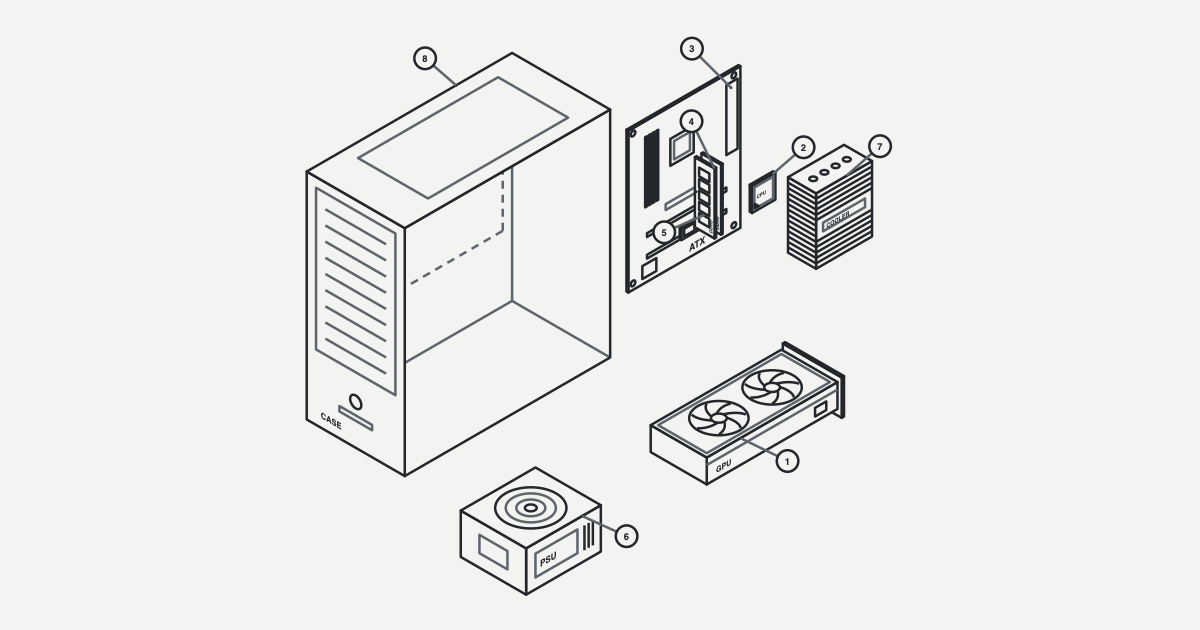
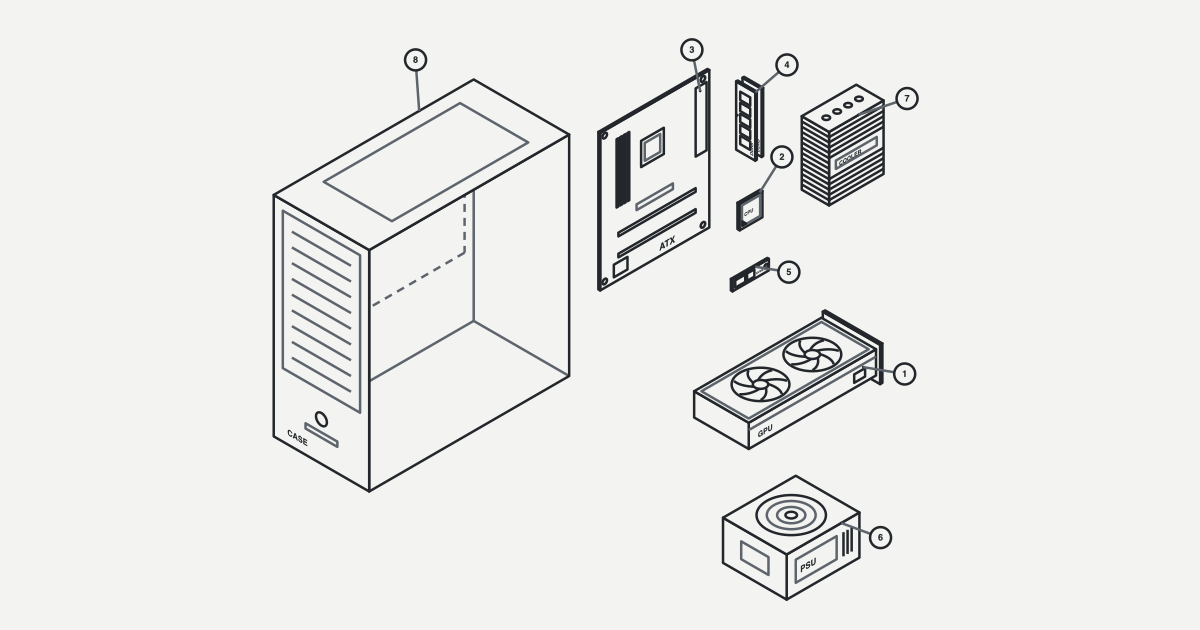
Чертёж: детали больше не накладываются друг на друга
- каждой детали задано место на экране, генератор проверяет зазоры и выноски
- анимация: детали по очереди выдвигаются от корпуса, без пролёта поверх
- обновлена картинка для соцсетей

diff --git a/public/index.html b/public/index.html
@@ -84,7 +84,7 @@
       <div class="container hero__grid">
         <h1 class="hero__title" id="hero-title" data-i18n="hero.title">Соберём компьютер, который не придётся переделывать</h1>
         <div class="hero__drawing">
-          <!-- assembly:start --><svg class="assembly" id="assembly" viewBox="-313 -402 887 846" role="img" aria-labelledby="assembly-title" xmlns="http://www.w3.org/2000/svg"><title id="assembly-title" data-i18n="hero.drawing">Сборочный чертёж компьютера: 8 деталей</title><g class="part part--case" id="part-case" data-pos="8"><line class="d thin" x1="0" y1="0" x2="0" y2="-368"/><line class="d thin" x1="0" y1="0" x2="145.5" y2="84"/><line class="d thin" x1="0" y1="0" x2="-304.8" y2="176"/><polygon class="ph" points="-13.9,-104 -180.1,-8 -180.1,-248 -13.9,-344"/><polygon class="o" points="145.5,84 -159.3,260 -159.3,-108 145.5,-284"/><polygon class="f" points="-304.8,176 -159.3,260 -159.3,-108 -304.8,-192"/><g transform="matrix(6.928 4 0 8 -304.8 -192)"><rect class="d thin" x="2" y="2" width="17" height="30"/><line class="d thin" x1="4" y1="5" x2="17" y2="5"/><line class="d thin" x1="4" y1="8" x2="17" y2="8"/><line class="d thin" x1="4" y1="11" x2="17" y2="11"/><line class="d thin" x1="4" y1="14" x2="17" y2="14"/><line class="d thin" x1="4" y1="17" x2="17" y2="17"/><line class="d thin" x1="4" y1="20" x2="17" y2="20"/><line class="d thin" x1="4" y1="23" x2="17" y2="23"/><line class="d thin" x1="4" y1="26" x2="17" y2="26"/><line class="d thin" x1="4" y1="29" x2="17" y2="29"/><circle class="d" cx="10.5" cy="37.5" r="1.2"/><rect class="d thin" x="7" y="40" width="7" height="1"/><text class="mk" x="3" y="44.2" font-size="1.6">CASE</text></g><polygon class="f" points="0,-368 145.5,-284 -159.3,-108 -304.8,-192"/><g transform="matrix(6.928 4 -6.928 4 0 -368)"><rect class="d thin" x="3" y="6" width="15" height="30"/></g></g><g class="parts"><g class="part" id="part-psu" data-pos="6" data-i="6" data-tx="41.6" data-ty="312" transform="translate(41.6 312)"><polygon class="f" points="90.1,60 -20.8,124 -20.8,55.2 90.1,-8.8"/><polygon class="f" points="-117.8,68 -20.8,124 -20.8,55.2 -117.8,-0.8"/><polygon class="f" points="-6.9,-64.8 90.1,-8.8 -20.8,55.2 -117.8,-0.8"/><g transform="matrix(6.928 4 -6.928 4 -6.9 -64.8)"><circle class="d" cx="7" cy="8" r="5.4"/><circle class="d thin" cx="7" cy="8" r="3.8"/><circle class="d thin" cx="7" cy="8" r="2.2"/><circle class="d" cx="7" cy="8" r="0.9"/></g><g transform="matrix(6.928 -4 0 8 -20.8 55.2)"><rect class="d thin" x="2" y="2" width="9" height="4.4"/><text class="mk" x="3" y="5" font-size="1.7">PSU</text><line class="d" x1="12.5" y1="2" x2="12.5" y2="6.6"/><line class="d" x1="13.4" y1="2" x2="13.4" y2="6.6"/><line class="d" x1="14.3" y1="2" x2="14.3" y2="6.6"/></g><g transform="matrix(6.928 4 0 8 -117.8 -0.8)"><rect class="d thin" x="4" y="2.5" width="6" height="3.4"/></g></g><g class="part" id="part-motherboard" data-pos="3" data-i="5" data-tx="346.4" data-ty="-8" transform="translate(346.4 -8)"><polygon class="f" points="-7.6,-100.4 -173.9,-4.4 -173.9,-244.4 -7.6,-340.4"/><polygon class="f" points="-176.7,-6 -173.9,-4.4 -173.9,-244.4 -176.7,-246"/><polygon class="f" points="-10.4,-342 -7.6,-340.4 -173.9,-244.4 -176.7,-246"/><g transform="matrix(6.928 -4 0 8 -173.9 -244.4)"><rect class="d" x="9" y="6" width="5" height="5"/><rect class="d thin" x="9.8" y="6.8" width="3.4" height="3.4"/><rect class="d" x="3.6" y="3" width="0.4" height="13"/><rect class="d" x="4.4" y="3" width="0.4" height="13"/><rect class="d" x="5.2" y="3" width="0.4" height="13"/><rect class="d" x="6" y="3" width="0.4" height="13"/><rect class="d" x="4" y="21" width="17" height="0.7"/><rect class="d" x="4" y="25" width="17" height="0.7"/><rect class="d thin" x="8" y="17.6" width="8" height="1.1"/><rect class="d" x="3" y="26.6" width="3" height="2.4"/><rect class="d" x="21" y="2" width="2.4" height="13"/><circle class="d" cx="1" cy="1" r="0.5"/><circle class="d" cx="22.6" cy="1" r="0.5"/><circle class="d" cx="1" cy="28.8" r="0.5"/><circle class="d" cx="22.6" cy="28.8" r="0.5"/><text class="mk" x="13" y="29" font-size="1.8">ATX</text></g></g><g class="part" id="part-storage" data-pos="5" data-i="4" data-tx="367.2" data-ty="28" transform="translate(367.2 28)"><polygon class="f" points="-60.6,-150.2 -116,-118.2 -116,-135.8 -60.6,-167.8"/><polygon class="f" points="-118.5,-119.6 -116,-118.2 -116,-135.8 -118.5,-137.2"/><polygon class="f" points="-63,-169.2 -60.6,-167.8 -116,-135.8 -118.5,-137.2"/><g transform="matrix(6.928 -4 0 8 -116 -135.8)"><rect class="d" x="0.6" y="0.4" width="2.2" height="1.4"/><rect class="d" x="3.2" y="0.4" width="1.6" height="1.4"/><circle class="d" cx="7.4" cy="1.1" r="0.4"/><text class="mk" x="5.1" y="1.6" font-size="0.6">NVME</text></g></g><g class="part" id="part-cpu" data-pos="2" data-i="3" data-tx="464.2" data-ty="60" transform="translate(464.2 60)"><polygon class="f" points="-73.4,-210.4 -108.1,-190.4 -108.1,-230.4 -73.4,-250.4"/><polygon class="f" points="-111.5,-192.4 -108.1,-190.4 -108.1,-230.4 -111.5,-232.4"/><polygon class="f" points="-76.9,-252.4 -73.4,-250.4 -108.1,-230.4 -111.5,-232.4"/><g transform="matrix(6.928 -4 0 8 -108.1 -230.4)"><rect class="d thin" x="0.5" y="0.5" width="4" height="4"/><path class="d" d="M0.6 4.4L1.4 4.4L0.6 3.6Z"/><text class="mk" x="1" y="2.9" font-size="0.95">CPU</text></g></g><g class="part" id="part-ram" data-pos="4" data-i="2" data-tx="408.8" data-ty="28" transform="translate(408.8 28)"><polygon class="f" points="-96.3,-127.6 -98.7,-126.2 -98.7,-230.2 -96.3,-231.6"/><polygon class="f" points="-127.8,-143 -98.7,-126.2 -98.7,-230.2 -127.8,-247"/><polygon class="f" points="-125.4,-248.4 -96.3,-231.6 -98.7,-230.2 -127.8,-247"/><g transform="matrix(6.928 4 0 8 -127.8 -247)"><rect class="d" x="0.9" y="1.5" width="2.2" height="1.6"/><rect class="d" x="0.9" y="3.6" width="2.2" height="1.6"/><rect class="d" x="0.9" y="5.7" width="2.2" height="1.6"/><rect class="d" x="0.9" y="7.8" width="2.2" height="1.6"/><rect class="d" x="0.9" y="9.9" width="2.2" height="1.6"/><line class="d" x1="0" y1="6.3" x2="0.5" y2="6.3"/><g transform="translate(3.75 12.4) rotate(-90)"><text class="mk" x="0" y="0" font-size="0.9">DDR5</text></g></g><polygon class="f" points="-106,-122 -108.4,-120.6 -108.4,-224.6 -106,-226"/><polygon class="f" points="-137.5,-137.4 -108.4,-120.6 -108.4,-224.6 -137.5,-241.4"/><polygon class="f" points="-135.1,-242.8 -106,-226 -108.4,-224.6 -137.5,-241.4"/><g transform="matrix(6.928 4 0 8 -137.5 -241.4)"><rect class="d" x="0.9" y="1.5" width="2.2" height="1.6"/><rect class="d" x="0.9" y="3.6" width="2.2" height="1.6"/><rect class="d" x="0.9" y="5.7" width="2.2" height="1.6"/><rect class="d" x="0.9" y="7.8" width="2.2" height="1.6"/><rect class="d" x="0.9" y="9.9" width="2.2" height="1.6"/><line class="d" x1="0" y1="6.3" x2="0.5" y2="6.3"/><g transform="translate(3.75 12.4) rotate(-90)"><text class="mk" x="0" y="0" font-size="0.9">DDR5</text></g></g></g><g class="part" id="part-cooling" data-pos="7" data-i="1" data-tx="533.5" data-ty="68" transform="translate(533.5 68)"><polygon class="f" points="-65.1,-205.6 -99.8,-185.6 -99.8,-225.6 -65.1,-245.6"/><polygon class="f" points="-108.1,-190.4 -99.8,-185.6 -99.8,-225.6 -108.1,-230.4"/><polygon class="f" points="-73.4,-250.4 -65.1,-245.6 -99.8,-225.6 -108.1,-230.4"/><polygon class="f" points="0.7,-163.6 -82.4,-115.6 -82.4,-227.6 0.7,-275.6"/><polygon class="f" points="-124,-139.6 -82.4,-115.6 -82.4,-227.6 -124,-251.6"/><polygon class="f" points="-40.9,-299.6 0.7,-275.6 -82.4,-227.6 -124,-251.6"/><g transform="matrix(6.928 4 0 8 -124 -251.6)"><line class="d" x1="0" y1="1" x2="6" y2="1"/><line class="d" x1="0" y1="2" x2="6" y2="2"/><line class="d" x1="0" y1="3" x2="6" y2="3"/><line class="d" x1="0" y1="4" x2="6" y2="4"/><line class="d" x1="0" y1="5" x2="6" y2="5"/><line class="d" x1="0" y1="6" x2="6" y2="6"/><line class="d" x1="0" y1="7" x2="6" y2="7"/><line class="d" x1="0" y1="8" x2="6" y2="8"/><line class="d" x1="0" y1="9" x2="6" y2="9"/><line class="d" x1="0" y1="10" x2="6" y2="10"/><line class="d" x1="0" y1="11" x2="6" y2="11"/><line class="d" x1="0" y1="12" x2="6" y2="12"/><line class="d" x1="0" y1="13" x2="6" y2="13"/></g><g transform="matrix(6.928 -4 0 8 -82.4 -227.6)"><line class="d" x1="0" y1="1" x2="12" y2="1"/><line class="d" x1="0" y1="2" x2="12" y2="2"/><line class="d" x1="0" y1="3" x2="12" y2="3"/><line class="d" x1="0" y1="4" x2="12" y2="4"/><line class="d" x1="0" y1="5" x2="12" y2="5"/><line class="d" x1="0" y1="9" x2="12" y2="9"/><line class="d" x1="0" y1="10" x2="12" y2="10"/><line class="d" x1="0" y1="11" x2="12" y2="11"/><line class="d" x1="0" y1="12" x2="12" y2="12"/><line class="d" x1="0" y1="13" x2="12" y2="13"/><rect class="d thin" x="1.5" y="6.2" width="9" height="1.6"/><text class="mk" x="2.2" y="7.6" font-size="1.15">COOLER</text></g><g transform="matrix(6.928 4 -6.928 4 -40.9 -299.6)"><circle class="d" cx="3" cy="2.4" r="0.6"/><circle class="d" cx="3" cy="4.8" r="0.6"/><circle class="d" cx="3" cy="7.2" r="0.6"/><circle class="d" cx="3" cy="9.6" r="0.6"/></g></g><g class="part" id="part-gpu" data-pos="1" data-i="0" data-tx="401.8" data-ty="248" transform="translate(401.8 248)"><polygon class="f" points="90.8,-76.4 87.3,-74.4 87.3,-134.4 90.8,-136.4"/><polygon class="f" points="0,-124.8 87.3,-74.4 87.3,-134.4 0,-184.8"/><polygon class="f" points="3.5,-186.8 90.8,-136.4 87.3,-134.4 0,-184.8"/><polygon class="f" points="81.1,-87.6 -112.9,24.4 -112.9,-15.6 81.1,-127.6"/><polygon class="f" points="-196.1,-23.6 -112.9,24.4 -112.9,-15.6 -196.1,-63.6"/><polygon class="f" points="-2.1,-175.6 81.1,-127.6 -112.9,-15.6 -196.1,-63.6"/><g transform="matrix(6.928 4 -6.928 4 -2.1 -175.6)"><rect class="d thin" x="0.8" y="0.8" width="10.4" height="26.4"/><circle class="d" cx="6" cy="8" r="4.5"/><circle class="d" cx="6" cy="8" r="1.2"/><path class="d" d="M7.17 8Q8.958 9.321 9.007 10.975"/><path class="d" d="M6.729 8.915Q6.812 11.137 5.5489999999999995 12.206"/><path class="d" d="M5.74 9.141Q4.053999999999999 10.59 2.431 10.27"/><path class="d" d="M4.946000000000001 8.508Q2.761 8.093 2 6.624"/><path class="d" d="M4.946000000000001 7.492000000000001Q3.908 5.526 4.581 4.015"/><path class="d" d="M5.74 6.859Q6.63 4.822 8.231 4.406000000000001"/><path class="d" d="M6.729 7.085Q8.877 6.511 10.201 7.504"/><circle class="d" cx="6" cy="19.4" r="4.5"/><circle class="d" cx="6" cy="19.4" r="1.2"/><path class="d" d="M7.17 19.4Q8.958 20.721 9.007 22.375"/><path class="d" d="M6.729 20.315Q6.812 22.537 5.5489999999999995 23.605999999999998"/><path class="d" d="M5.74 20.541Q4.053999999999999 21.99 2.431 21.67"/><path class="d" d="M4.946000000000001 19.908Q2.761 19.493 2 18.024"/><path class="d" d="M4.946000000000001 18.892Q3.908 16.926 4.581 15.415"/><path class="d" d="M5.74 18.259Q6.63 16.222 8.231 15.806"/><path class="d" d="M6.729 18.485Q8.877 17.910999999999998 10.201 18.904"/></g><g transform="matrix(6.928 -4 0 8 -112.9 -15.6)"><line class="d thin" x1="0" y1="1.4" x2="28" y2="1.4"/><rect class="d" x="23.2" y="2.4" width="2.4" height="1.6"/><text class="mk" x="2" y="3.9" font-size="1.5">GPU</text></g></g></g><g class="callouts"><g class="callout" data-part="gpu"><circle class="co-dot" cx="338.8" cy="203.6" r="2"/><line class="co-line" pathLength="1" x1="338.8" y1="203.6" x2="394.4" y2="230.6"/><g transform="translate(408.8 237.6)"><g class="co-ball"><circle r="16"/><text y="5.5">1</text></g></g></g><g class="callout" data-part="cpu"><circle class="co-dot" cx="386.6" cy="-188" r="2"/><line class="co-line" pathLength="1" x1="386.6" y1="-188" x2="420.5" y2="-217.5"/><g transform="translate(432.6 -228)"><g class="co-ball"><circle r="16"/><text y="5.5">2</text></g></g></g><g class="callout" data-part="motherboard"><circle class="co-dot" cx="324.9" cy="-316.4" r="2"/><line class="co-line" pathLength="1" x1="324.9" y1="-316.4" x2="278.2" y2="-363.1"/><g transform="translate(266.9 -374.4)"><g class="co-ball"><circle r="16"/><text y="5.5">3</text></g></g></g><g class="callout" data-part="ram"><circle class="co-dot" cx="300.3" cy="-196.6" r="2"/><line class="co-line" pathLength="1" x1="300.3" y1="-196.6" x2="273.3" y2="-252.2"/><g transform="translate(266.3 -266.6)"><g class="co-ball"><circle r="16"/><text y="5.5">4</text></g></g></g><g class="callout" data-part="storage"><circle class="co-dot" cx="285.8" cy="-127.8" r="2"/><line class="co-line" pathLength="1" x1="285.8" y1="-127.8" x2="240.5" y2="-108.2"/><g transform="translate(225.8 -101.8)"><g class="co-ball"><circle r="16"/><text y="5.5">5</text></g></g></g><g class="callout" data-part="psu"><circle class="co-dot" cx="103.9" cy="319.2" r="2"/><line class="co-line" pathLength="1" x1="103.9" y1="319.2" x2="155.4" y2="342.6"/><g transform="translate(169.9 349.2)"><g class="co-ball"><circle r="16"/><text y="5.5">6</text></g></g></g><g class="callout" data-part="cooling"><circle class="co-dot" cx="496.1" cy="-185.6" r="2"/><line class="co-line" pathLength="1" x1="496.1" y1="-185.6" x2="534" y2="-219"/><g transform="translate(546.1 -229.6)"><g class="co-ball"><circle r="16"/><text y="5.5">7</text></g></g></g><g class="callout" data-part="case"><circle class="co-dot" cx="-83.1" cy="-320" r="2"/><line class="co-line" pathLength="1" x1="-83.1" y1="-320" x2="-117.1" y2="-349.5"/><g transform="translate(-129.1 -360)"><g class="co-ball"><circle r="16"/><text y="5.5">8</text></g></g></g></g></svg><!-- assembly:end -->
+          <!-- assembly:start --><svg class="assembly" id="assembly" viewBox="-313 -451 1011 884" role="img" aria-labelledby="assembly-title" xmlns="http://www.w3.org/2000/svg"><title id="assembly-title" data-i18n="hero.drawing">Сборочный чертёж компьютера: 8 деталей</title><g class="part part--case" id="part-case" data-pos="8"><line class="d thin" x1="0" y1="0" x2="0" y2="-368"/><line class="d thin" x1="0" y1="0" x2="145.5" y2="84"/><line class="d thin" x1="0" y1="0" x2="-304.8" y2="176"/><polygon class="ph" points="-13.9,-104 -180.1,-8 -180.1,-248 -13.9,-344"/><polygon class="o" points="145.5,84 -159.3,260 -159.3,-108 145.5,-284"/><polygon class="f" points="-304.8,176 -159.3,260 -159.3,-108 -304.8,-192"/><g transform="matrix(6.928 4 0 8 -304.8 -192)"><rect class="d thin" x="2" y="2" width="17" height="30"/><line class="d thin" x1="4" y1="5" x2="17" y2="5"/><line class="d thin" x1="4" y1="8" x2="17" y2="8"/><line class="d thin" x1="4" y1="11" x2="17" y2="11"/><line class="d thin" x1="4" y1="14" x2="17" y2="14"/><line class="d thin" x1="4" y1="17" x2="17" y2="17"/><line class="d thin" x1="4" y1="20" x2="17" y2="20"/><line class="d thin" x1="4" y1="23" x2="17" y2="23"/><line class="d thin" x1="4" y1="26" x2="17" y2="26"/><line class="d thin" x1="4" y1="29" x2="17" y2="29"/><circle class="d" cx="10.5" cy="37.5" r="1.2"/><rect class="d thin" x="7" y="40" width="7" height="1"/><text class="mk" x="3" y="44.2" font-size="1.6">CASE</text></g><polygon class="f" points="0,-368 145.5,-284 -159.3,-108 -304.8,-192"/><g transform="matrix(6.928 4 -6.928 4 0 -368)"><rect class="d thin" x="3" y="6" width="15" height="30"/></g></g><g class="parts"><g class="part" id="part-psu" data-pos="6" data-i="6" data-tx="497.8" data-ty="300.8" data-sx="-23.1" data-sy="-15.8" transform="translate(497.8 300.8)"><polygon class="f" points="90.1,60 -20.8,124 -20.8,55.2 90.1,-8.8"/><polygon class="f" points="-117.8,68 -20.8,124 -20.8,55.2 -117.8,-0.8"/><polygon class="f" points="-6.9,-64.8 90.1,-8.8 -20.8,55.2 -117.8,-0.8"/><g transform="matrix(6.928 4 -6.928 4 -6.9 -64.8)"><circle class="d" cx="7" cy="8" r="5.4"/><circle class="d thin" cx="7" cy="8" r="3.8"/><circle class="d thin" cx="7" cy="8" r="2.2"/><circle class="d" cx="7" cy="8" r="0.9"/></g><g transform="matrix(6.928 -4 0 8 -20.8 55.2)"><rect class="d thin" x="2" y="2" width="9" height="4.4"/><text class="mk" x="3" y="5" font-size="1.7">PSU</text><line class="d" x1="12.5" y1="2" x2="12.5" y2="6.6"/><line class="d" x1="13.4" y1="2" x2="13.4" y2="6.6"/><line class="d" x1="14.3" y1="2" x2="14.3" y2="6.6"/></g><g transform="matrix(6.928 4 0 8 -117.8 -0.8)"><rect class="d thin" x="4" y="2.5" width="6" height="3.4"/></g></g><g class="part" id="part-motherboard" data-pos="3" data-i="0" data-tx="366.7" data-ty="-42" data-sx="-25.5" data-sy="11.6" transform="translate(366.7 -42)"><polygon class="f" points="-7.6,-100.4 -173.9,-4.4 -173.9,-244.4 -7.6,-340.4"/><polygon class="f" points="-176.7,-6 -173.9,-4.4 -173.9,-244.4 -176.7,-246"/><polygon class="f" points="-10.4,-342 -7.6,-340.4 -173.9,-244.4 -176.7,-246"/><g transform="matrix(6.928 -4 0 8 -173.9 -244.4)"><rect class="d" x="9" y="6" width="5" height="5"/><rect class="d thin" x="9.8" y="6.8" width="3.4" height="3.4"/><rect class="d" x="3.6" y="3" width="0.4" height="13"/><rect class="d" x="4.4" y="3" width="0.4" height="13"/><rect class="d" x="5.2" y="3" width="0.4" height="13"/><rect class="d" x="6" y="3" width="0.4" height="13"/><rect class="d" x="4" y="21" width="17" height="0.7"/><rect class="d" x="4" y="25" width="17" height="0.7"/><rect class="d thin" x="8" y="17.6" width="8" height="1.1"/><rect class="d" x="3" y="26.6" width="3" height="2.4"/><rect class="d" x="21" y="2" width="2.4" height="13"/><circle class="d" cx="1" cy="1" r="0.5"/><circle class="d" cx="22.6" cy="1" r="0.5"/><circle class="d" cx="1" cy="28.8" r="0.5"/><circle class="d" cx="22.6" cy="28.8" r="0.5"/><text class="mk" x="13" y="29" font-size="1.8">ATX</text></g></g><g class="part" id="part-storage" data-pos="5" data-i="3" data-tx="510.5" data-ty="73.2" data-sx="-28" data-sy="0.9" transform="translate(510.5 73.2)"><polygon class="f" points="-60.6,-150.2 -116,-118.2 -116,-135.8 -60.6,-167.8"/><polygon class="f" points="-118.5,-119.6 -116,-118.2 -116,-135.8 -118.5,-137.2"/><polygon class="f" points="-63,-169.2 -60.6,-167.8 -116,-135.8 -118.5,-137.2"/><g transform="matrix(6.928 -4 0 8 -116 -135.8)"><rect class="d" x="0.6" y="0.4" width="2.2" height="1.4"/><rect class="d" x="3.2" y="0.4" width="1.6" height="1.4"/><circle class="d" cx="7.4" cy="1.1" r="0.4"/><text class="mk" x="5.1" y="1.6" font-size="0.6">NVME</text></g></g><g class="part" id="part-cpu" data-pos="2" data-i="2" data-tx="513.5" data-ty="52.4" data-sx="-27.3" data-sy="6.3" transform="translate(513.5 52.4)"><polygon class="f" points="-73.4,-210.4 -108.1,-190.4 -108.1,-230.4 -73.4,-250.4"/><polygon class="f" points="-111.5,-192.4 -108.1,-190.4 -108.1,-230.4 -111.5,-232.4"/><polygon class="f" points="-76.9,-252.4 -73.4,-250.4 -108.1,-230.4 -111.5,-232.4"/><g transform="matrix(6.928 -4 0 8 -108.1 -230.4)"><rect class="d thin" x="0.5" y="0.5" width="4" height="4"/><path class="d" d="M0.6 4.4L1.4 4.4L0.6 3.6Z"/><text class="mk" x="1" y="2.9" font-size="0.95">CPU</text></g></g><g class="part" id="part-ram" data-pos="4" data-i="1" data-tx="537.5" data-ty="-123.6" data-sx="-25" data-sy="12.7" transform="translate(537.5 -123.6)"><polygon class="f" points="-96.3,-127.6 -98.7,-126.2 -98.7,-230.2 -96.3,-231.6"/><polygon class="f" points="-127.8,-143 -98.7,-126.2 -98.7,-230.2 -127.8,-247"/><polygon class="f" points="-125.4,-248.4 -96.3,-231.6 -98.7,-230.2 -127.8,-247"/><g transform="matrix(6.928 4 0 8 -127.8 -247)"><rect class="d" x="0.9" y="1.5" width="2.2" height="1.6"/><rect class="d" x="0.9" y="3.6" width="2.2" height="1.6"/><rect class="d" x="0.9" y="5.7" width="2.2" height="1.6"/><rect class="d" x="0.9" y="7.8" width="2.2" height="1.6"/><rect class="d" x="0.9" y="9.9" width="2.2" height="1.6"/><line class="d" x1="0" y1="6.3" x2="0.5" y2="6.3"/><g transform="translate(3.75 12.4) rotate(-90)"><text class="mk" x="0" y="0" font-size="0.9">DDR5</text></g></g><polygon class="f" points="-106,-122 -108.4,-120.6 -108.4,-224.6 -106,-226"/><polygon class="f" points="-137.5,-137.4 -108.4,-120.6 -108.4,-224.6 -137.5,-241.4"/><polygon class="f" points="-135.1,-242.8 -106,-226 -108.4,-224.6 -137.5,-241.4"/><g transform="matrix(6.928 4 0 8 -137.5 -241.4)"><rect class="d" x="0.9" y="1.5" width="2.2" height="1.6"/><rect class="d" x="0.9" y="3.6" width="2.2" height="1.6"/><rect class="d" x="0.9" y="5.7" width="2.2" height="1.6"/><rect class="d" x="0.9" y="7.8" width="2.2" height="1.6"/><rect class="d" x="0.9" y="9.9" width="2.2" height="1.6"/><line class="d" x1="0" y1="6.3" x2="0.5" y2="6.3"/><g transform="translate(3.75 12.4) rotate(-90)"><text class="mk" x="0" y="0" font-size="0.9">DDR5</text></g></g></g><g class="part" id="part-cooling" data-pos="7" data-i="4" data-tx="624" data-ty="-60.4" data-sx="-26.6" data-sy="8.9" transform="translate(624 -60.4)"><polygon class="f" points="-65.1,-205.6 -99.8,-185.6 -99.8,-225.6 -65.1,-245.6"/><polygon class="f" points="-108.1,-190.4 -99.8,-185.6 -99.8,-225.6 -108.1,-230.4"/><polygon class="f" points="-73.4,-250.4 -65.1,-245.6 -99.8,-225.6 -108.1,-230.4"/><polygon class="f" points="0.7,-163.6 -82.4,-115.6 -82.4,-227.6 0.7,-275.6"/><polygon class="f" points="-124,-139.6 -82.4,-115.6 -82.4,-227.6 -124,-251.6"/><polygon class="f" points="-40.9,-299.6 0.7,-275.6 -82.4,-227.6 -124,-251.6"/><g transform="matrix(6.928 4 0 8 -124 -251.6)"><line class="d" x1="0" y1="1" x2="6" y2="1"/><line class="d" x1="0" y1="2" x2="6" y2="2"/><line class="d" x1="0" y1="3" x2="6" y2="3"/><line class="d" x1="0" y1="4" x2="6" y2="4"/><line class="d" x1="0" y1="5" x2="6" y2="5"/><line class="d" x1="0" y1="6" x2="6" y2="6"/><line class="d" x1="0" y1="7" x2="6" y2="7"/><line class="d" x1="0" y1="8" x2="6" y2="8"/><line class="d" x1="0" y1="9" x2="6" y2="9"/><line class="d" x1="0" y1="10" x2="6" y2="10"/><line class="d" x1="0" y1="11" x2="6" y2="11"/><line class="d" x1="0" y1="12" x2="6" y2="12"/><line class="d" x1="0" y1="13" x2="6" y2="13"/></g><g transform="matrix(6.928 -4 0 8 -82.4 -227.6)"><line class="d" x1="0" y1="1" x2="12" y2="1"/><line class="d" x1="0" y1="2" x2="12" y2="2"/><line class="d" x1="0" y1="3" x2="12" y2="3"/><line class="d" x1="0" y1="4" x2="12" y2="4"/><line class="d" x1="0" y1="5" x2="12" y2="5"/><line class="d" x1="0" y1="9" x2="12" y2="9"/><line class="d" x1="0" y1="10" x2="12" y2="10"/><line class="d" x1="0" y1="11" x2="12" y2="11"/><line class="d" x1="0" y1="12" x2="12" y2="12"/><line class="d" x1="0" y1="13" x2="12" y2="13"/><rect class="d thin" x="1.5" y="6.2" width="9" height="1.6"/><text class="mk" x="2.2" y="7.6" font-size="1.15">COOLER</text></g><g transform="matrix(6.928 4 -6.928 4 -40.9 -299.6)"><circle class="d" cx="3" cy="2.4" r="0.6"/><circle class="d" cx="3" cy="4.8" r="0.6"/><circle class="d" cx="3" cy="7.2" r="0.6"/><circle class="d" cx="3" cy="9.6" r="0.6"/></g></g><g class="part" id="part-gpu" data-pos="1" data-i="5" data-tx="532.1" data-ty="170.8" data-sx="-27.1" data-sy="-7" transform="translate(532.1 170.8)"><polygon class="f" points="90.8,-76.4 87.3,-74.4 87.3,-134.4 90.8,-136.4"/><polygon class="f" points="0,-124.8 87.3,-74.4 87.3,-134.4 0,-184.8"/><polygon class="f" points="3.5,-186.8 90.8,-136.4 87.3,-134.4 0,-184.8"/><polygon class="f" points="81.1,-87.6 -112.9,24.4 -112.9,-15.6 81.1,-127.6"/><polygon class="f" points="-196.1,-23.6 -112.9,24.4 -112.9,-15.6 -196.1,-63.6"/><polygon class="f" points="-2.1,-175.6 81.1,-127.6 -112.9,-15.6 -196.1,-63.6"/><g transform="matrix(6.928 4 -6.928 4 -2.1 -175.6)"><rect class="d thin" x="0.8" y="0.8" width="10.4" height="26.4"/><circle class="d" cx="6" cy="8" r="4.5"/><circle class="d" cx="6" cy="8" r="1.2"/><path class="d" d="M7.17 8Q8.958 9.321 9.007 10.975"/><path class="d" d="M6.729 8.915Q6.812 11.137 5.5489999999999995 12.206"/><path class="d" d="M5.74 9.141Q4.053999999999999 10.59 2.431 10.27"/><path class="d" d="M4.946000000000001 8.508Q2.761 8.093 2 6.624"/><path class="d" d="M4.946000000000001 7.492000000000001Q3.908 5.526 4.581 4.015"/><path class="d" d="M5.74 6.859Q6.63 4.822 8.231 4.406000000000001"/><path class="d" d="M6.729 7.085Q8.877 6.511 10.201 7.504"/><circle class="d" cx="6" cy="19.4" r="4.5"/><circle class="d" cx="6" cy="19.4" r="1.2"/><path class="d" d="M7.17 19.4Q8.958 20.721 9.007 22.375"/><path class="d" d="M6.729 20.315Q6.812 22.537 5.5489999999999995 23.605999999999998"/><path class="d" d="M5.74 20.541Q4.053999999999999 21.99 2.431 21.67"/><path class="d" d="M4.946000000000001 19.908Q2.761 19.493 2 18.024"/><path class="d" d="M4.946000000000001 18.892Q3.908 16.926 4.581 15.415"/><path class="d" d="M5.74 18.259Q6.63 16.222 8.231 15.806"/><path class="d" d="M6.729 18.485Q8.877 17.910999999999998 10.201 18.904"/></g><g transform="matrix(6.928 -4 0 8 -112.9 -15.6)"><line class="d thin" x1="0" y1="1.4" x2="28" y2="1.4"/><rect class="d" x="23.2" y="2.4" width="2.4" height="1.6"/><text class="mk" x="2" y="3.9" font-size="1.5">GPU</text></g></g></g><g class="callouts"><g class="callout" data-part="gpu"><circle class="co-dot" cx="593.7" cy="70.4" r="2"/><line class="co-line" pathLength="1" x1="593.7" y1="70.4" x2="641.1" y2="78.3"/><g transform="translate(656.9 80.9)"><g class="co-ball"><circle r="16"/><text y="5.5">1</text></g></g></g><g class="callout" data-part="cpu"><circle class="co-dot" cx="435.9" cy="-195.6" r="2"/><line class="co-line" pathLength="1" x1="435.9" y1="-195.6" x2="461.4" y2="-236.3"/><g transform="translate(469.8 -249.9)"><g class="co-ball"><circle r="16"/><text y="5.5">2</text></g></g></g><g class="callout" data-part="motherboard"><circle class="co-dot" cx="345.2" cy="-350.4" r="2"/><line class="co-line" pathLength="1" x1="345.2" y1="-350.4" x2="335.7" y2="-397.5"/><g transform="translate(332.6 -413.1)"><g class="co-ball"><circle r="16"/><text y="5.5">3</text></g></g></g><g class="callout" data-part="ram"><circle class="co-dot" cx="429.1" cy="-348.2" r="2"/><line class="co-line" pathLength="1" x1="429.1" y1="-348.2" x2="465.4" y2="-379.6"/><g transform="translate(477.5 -390.1)"><g class="co-ball"><circle r="16"/><text y="5.5">4</text></g></g></g><g class="callout" data-part="storage"><circle class="co-dot" cx="429.1" cy="-82.6" r="2"/><line class="co-line" pathLength="1" x1="429.1" y1="-82.6" x2="464.6" y2="-76.9"/><g transform="translate(480.4 -74.3)"><g class="co-ball"><circle r="16"/><text y="5.5">5</text></g></g></g><g class="callout" data-part="psu"><circle class="co-dot" cx="560.1" cy="308" r="2"/><line class="co-line" pathLength="1" x1="560.1" y1="308" x2="605.1" y2="324.7"/><g transform="translate(620.1 330.3)"><g class="co-ball"><circle r="16"/><text y="5.5">6</text></g></g></g><g class="callout" data-part="cooling"><circle class="co-dot" cx="586.6" cy="-314" r="2"/><line class="co-line" pathLength="1" x1="586.6" y1="-314" x2="645.3" y2="-333.8"/><g transform="translate(660.5 -338.9)"><g class="co-ball"><circle r="16"/><text y="5.5">7</text></g></g></g><g class="callout" data-part="case"><circle class="co-dot" cx="-83.1" cy="-320" r="2"/><line class="co-line" pathLength="1" x1="-83.1" y1="-320" x2="-87.5" y2="-381.8"/><g transform="translate(-88.6 -397.8)"><g class="co-ball"><circle r="16"/><text y="5.5">8</text></g></g></g></g></svg><!-- assembly:end -->
         </div>
         <div class="hero__body">
           <p data-i18n="hero.text">Подберём детали под ваши задачи и бюджет, проверим совместимость и соберём у себя в мастерской.</p>

diff --git a/public/css/landing.css b/public/css/landing.css
@@ -134,7 +134,7 @@
 }
 .assembly .co-ball { transform-box: fill-box; transform-origin: center; }
 @media (max-width: 559px) {
-  .assembly .co-ball { scale: 1.9; }
+  .assembly .co-ball { scale: 1.6; } /* то же значение — MOBILE_SCALE в scripts/build-assembly.mjs */
   .assembly .co-dot { scale: 1.6; transform-box: fill-box; transform-origin: center; }
 }
 
@@ -149,23 +149,23 @@
 }
 .assembly .part:not(.part--case), .assembly .callout { cursor: pointer; }
 
-/* Раскладка один раз (DESIGN §6.2): пока не разложено — детали внутри корпуса */
-.js:not(.explode-done) .assembly .parts .part { opacity: 0; transform: translate(0px, 0px); }
+/* Раскладка один раз (DESIGN §6.2, §13): корпус на месте, детали по очереди выдвигаются
+   от корпуса на свои места — без пересечений с корпусом и друг другом. */
+.js:not(.explode-done) .assembly .parts .part { opacity: 0; }
 .js:not(.explode-done) .assembly .callout { opacity: 0; }
 
 .js .assembly.is-exploding .parts .part {
-  animation: explode 1200ms var(--ease) both;
-  animation-delay: calc(var(--i, 0) * 60ms);
+  animation: explode 600ms var(--ease) both;
+  animation-delay: calc(var(--i, 0) * 110ms);
 }
 .js .assembly.is-exploding .callout {
   animation: callout-in 400ms var(--ease) both;
-  animation-delay: calc(1000ms + var(--n, 0) * 40ms);
+  animation-delay: calc(900ms + var(--n, 0) * 40ms);
 }
 
 @keyframes explode {
-  0% { opacity: 0; transform: translate(0px, 0px); }
-  20% { opacity: 1; }
-  100% { opacity: 1; transform: translate(var(--tx), var(--ty)); }
+  from { opacity: 0; transform: translate(calc(var(--tx) + var(--sx)), calc(var(--ty) + var(--sy))); }
+  to { opacity: 1; transform: translate(var(--tx), var(--ty)); }
 }
 @keyframes callout-in {
   from { opacity: 0; }

diff --git a/public/js/assembly.js b/public/js/assembly.js
@@ -1,4 +1,4 @@
-// Сборочный чертёж: раскладка один раз и связь со спецификацией (DESIGN §6, SPEC §8.2).
+// Сборочный чертёж: детали один раз выдвигаются на свои места и связь со спецификацией (DESIGN §6, SPEC §8.2).
 import * as store from './storage.js';
 
 let svg;
@@ -41,6 +41,8 @@ export function init({ isQuizOpen, onPick } = {}) {
   svg.querySelectorAll('.parts .part').forEach((g) => {
     g.style.setProperty('--tx', `${g.dataset.tx}px`);
     g.style.setProperty('--ty', `${g.dataset.ty}px`);
+    g.style.setProperty('--sx', `${g.dataset.sx || 0}px`);
+    g.style.setProperty('--sy', `${g.dataset.sy || 0}px`);
     g.style.setProperty('--i', g.dataset.i);
   });
   svg.querySelectorAll('.callout').forEach((c, n) => c.style.setProperty('--n', n));

diff --git a/DESIGN.md b/DESIGN.md
@@ -480,3 +480,5 @@
 - Кружки выносок — ⌀ 32 единицы чертежа (на ПК ≈ 22 px), на телефоне увеличиваются в 1,9 раза.
 - В узбекском тексте oʻ/gʻ набраны знаком `‘` (U+2018), тутук белгиси — `’` (U+2019): у U+02BB/U+02BC в Roboto Flex слишком широкие поля, слова разваливаются.
 - Иконки деталей в квизе — тот же генератор, что и чертёж (`scripts/build-assembly.mjs`), цвета наследуются от `<use>`.
+- Раскладка чертежа переделана по замечанию владельца: детали накладывались друг на друга (память и SSD лежали на плате, при анимации детали летели поверх корпуса и друг друга). Теперь каждой детали задано своё место на экране, генератор проверяет зазор ≥ 16 px между деталями и что кружки выносок (с учётом мобильного увеличения ×1,6) и их линии ни на что не ложатся — иначе сборка чертежа падает с ошибкой. Анимация: корпус на месте, детали по очереди (от платы наружу, шаг 110 мс) выдвигаются на 28 px от корпуса к своему месту и проявляются.
+
